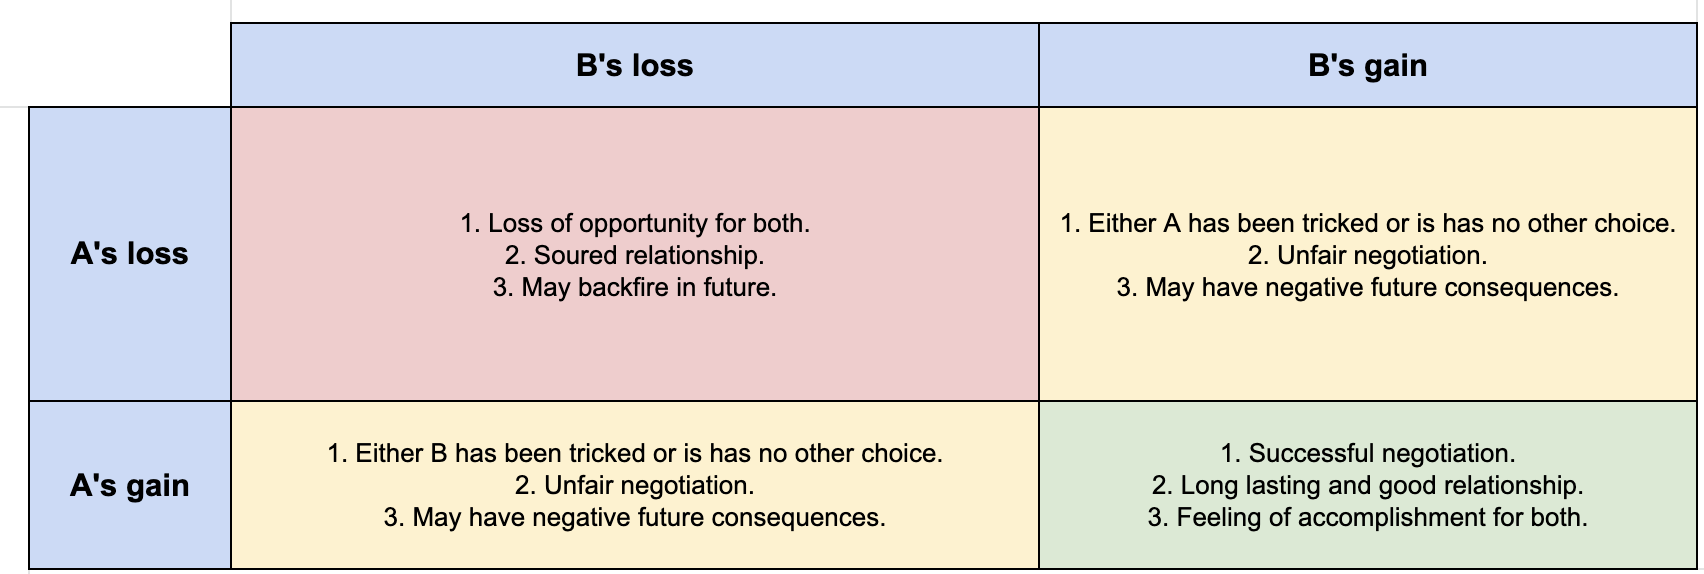
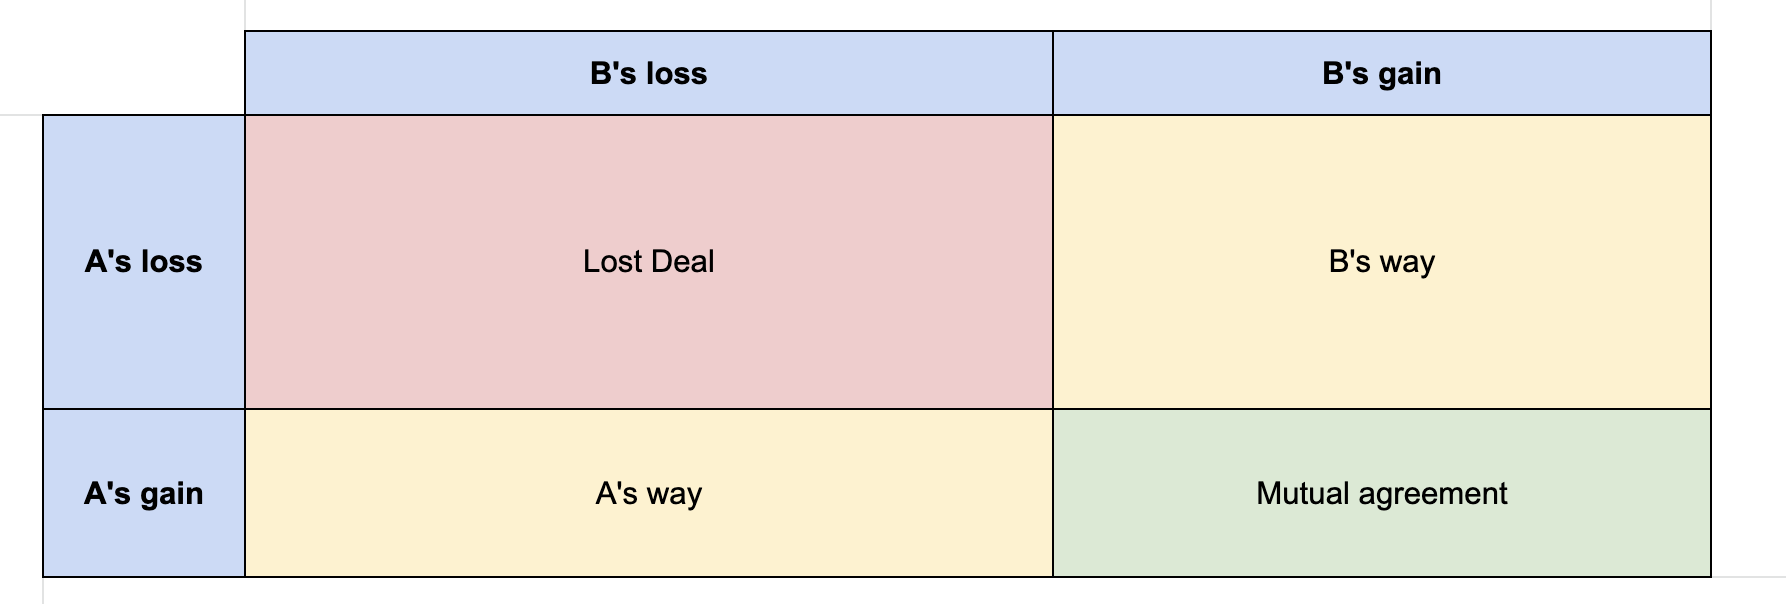
update post

diff --git a/_posts/2020/2020-04-10-The-Art-of-Negotiation.md b/_posts/2020/2020-04-10-The-Art-of-Negotiation.md
@@ -3,7 +3,7 @@ layout: post
 title: The art of Negotiation
 excerpt: "An essential guide to a successful negotiation"
 categories: [social,geek]
-tag: [negotiation, lifehack, practical]
+tag: [negotiation, lifehack, practical, negotiationskill]
 comments: true
 author: Anand
 image:
@@ -12,15 +12,15 @@ image:
 ---
 Unless you’re marooned on an uninhabited island or the sole survivor of an extraterrestrial exploration mission, you will inevitably have to `negotiate` with another person at some point in time. It is therefore imperative that you equip yourself with this lifelong skill.
 
-The first thing that you need to understand is that negotiation has to be a win-win situation for both parties, failing to do that will result in loss of faith, bad relationship and worse a situation that will backfire on you. The below diagram gives a rough sketch of the 4 major outcomes of a deal, with the top left corner representing the highest magnitude of the loss for both the parties and bottom-right representing a healthy partnership bringing huge returns for both the parties.
+The first thing that you need to understand is that negotiation has to be a win-win situation for both parties [or atleast on the face of it], failing to do that will result in loss of faith, bad relationship and worse a situation that will backfire on you. The below diagram gives a rough sketch of the 4 major outcomes of a deal, with the top left corner representing the highest magnitude of the loss for both the parties and bottom-right representing a healthy partnership bringing huge returns for both the parties.
 
 <p align="center">
     <img src="/img/2020/negotiation-cases.png" alt="Negotation cases chart" />
 </p>
 
-The diagram above gives us a clear picture of what we should strive to do in order to lead the agreement to the bottom right corner. However, more often than not, in a real life situation we do not know these boundaries. The negotiating parties deliberately hide these boundaries thinking that it will give them an upper hand in the negotiation, which is true to certain extent, but what this mindset does is it inevitably leads both parties to pull each other in their zone [highlighted orange in the above diagram]. This tug-of-war if not handled gracefully [which happens most of the time] leads them to a complete dissent and throws them both to the red zone as shown above. This is quite similar to a classic [game theory example](https://en.wikipedia.org/wiki/Prisoner%27s_dilemma){:target="_blank"}.
+The diagram above gives us a clear picture of what we should strive to do in order to lead the agreement to the bottom right corner. However, more often than not, in a real life situation we `do not know these boundaries`. The negotiating parties deliberately hide these boundaries thinking that it will give them an upper hand in the negotiation, which is true to certain extent, but what this mindset does is it inevitably leads both parties to pull each other in their zone [highlighted orange in the above diagram]. This tug-of-war if not handled gracefully [which happens most of the time] leads them to a complete dissent and throws them both to the red zone as shown above. This is quite similar to a classic [game theory example](https://en.wikipedia.org/wiki/Prisoner%27s_dilemma){:target="_blank"}.
 
-So to have a successful negotiation, one must learn how to break the tension, not sound  greedy but at the same time extract as much information as you can. Here are some of the most essential techniques used by professional negotiator.
+So to have a successful negotiation, one must learn how to break the tension, not sound  greedy but at the same time extract as much information as you can so that you can pull the other party towards your zone but in a way that your negotiating partner accepts it willingly. Here are some of the most essential techniques used by professional negotiator.
 
 
 ## Techniques
